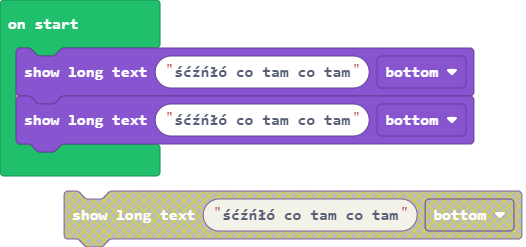
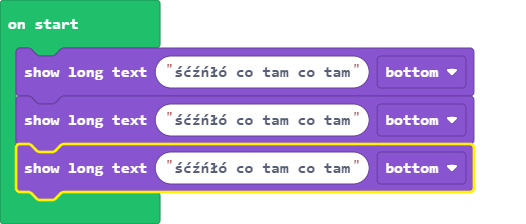
3 blokki razem

diff --git a/main.ts b/main.ts
@@ -1,2 +1,3 @@
 game.showLongText("śćźńłó co tam co tam", DialogLayout.Bottom)
 game.showLongText("śćźńłó co tam co tam", DialogLayout.Bottom)
+game.showLongText("śćźńłó co tam co tam", DialogLayout.Bottom)
